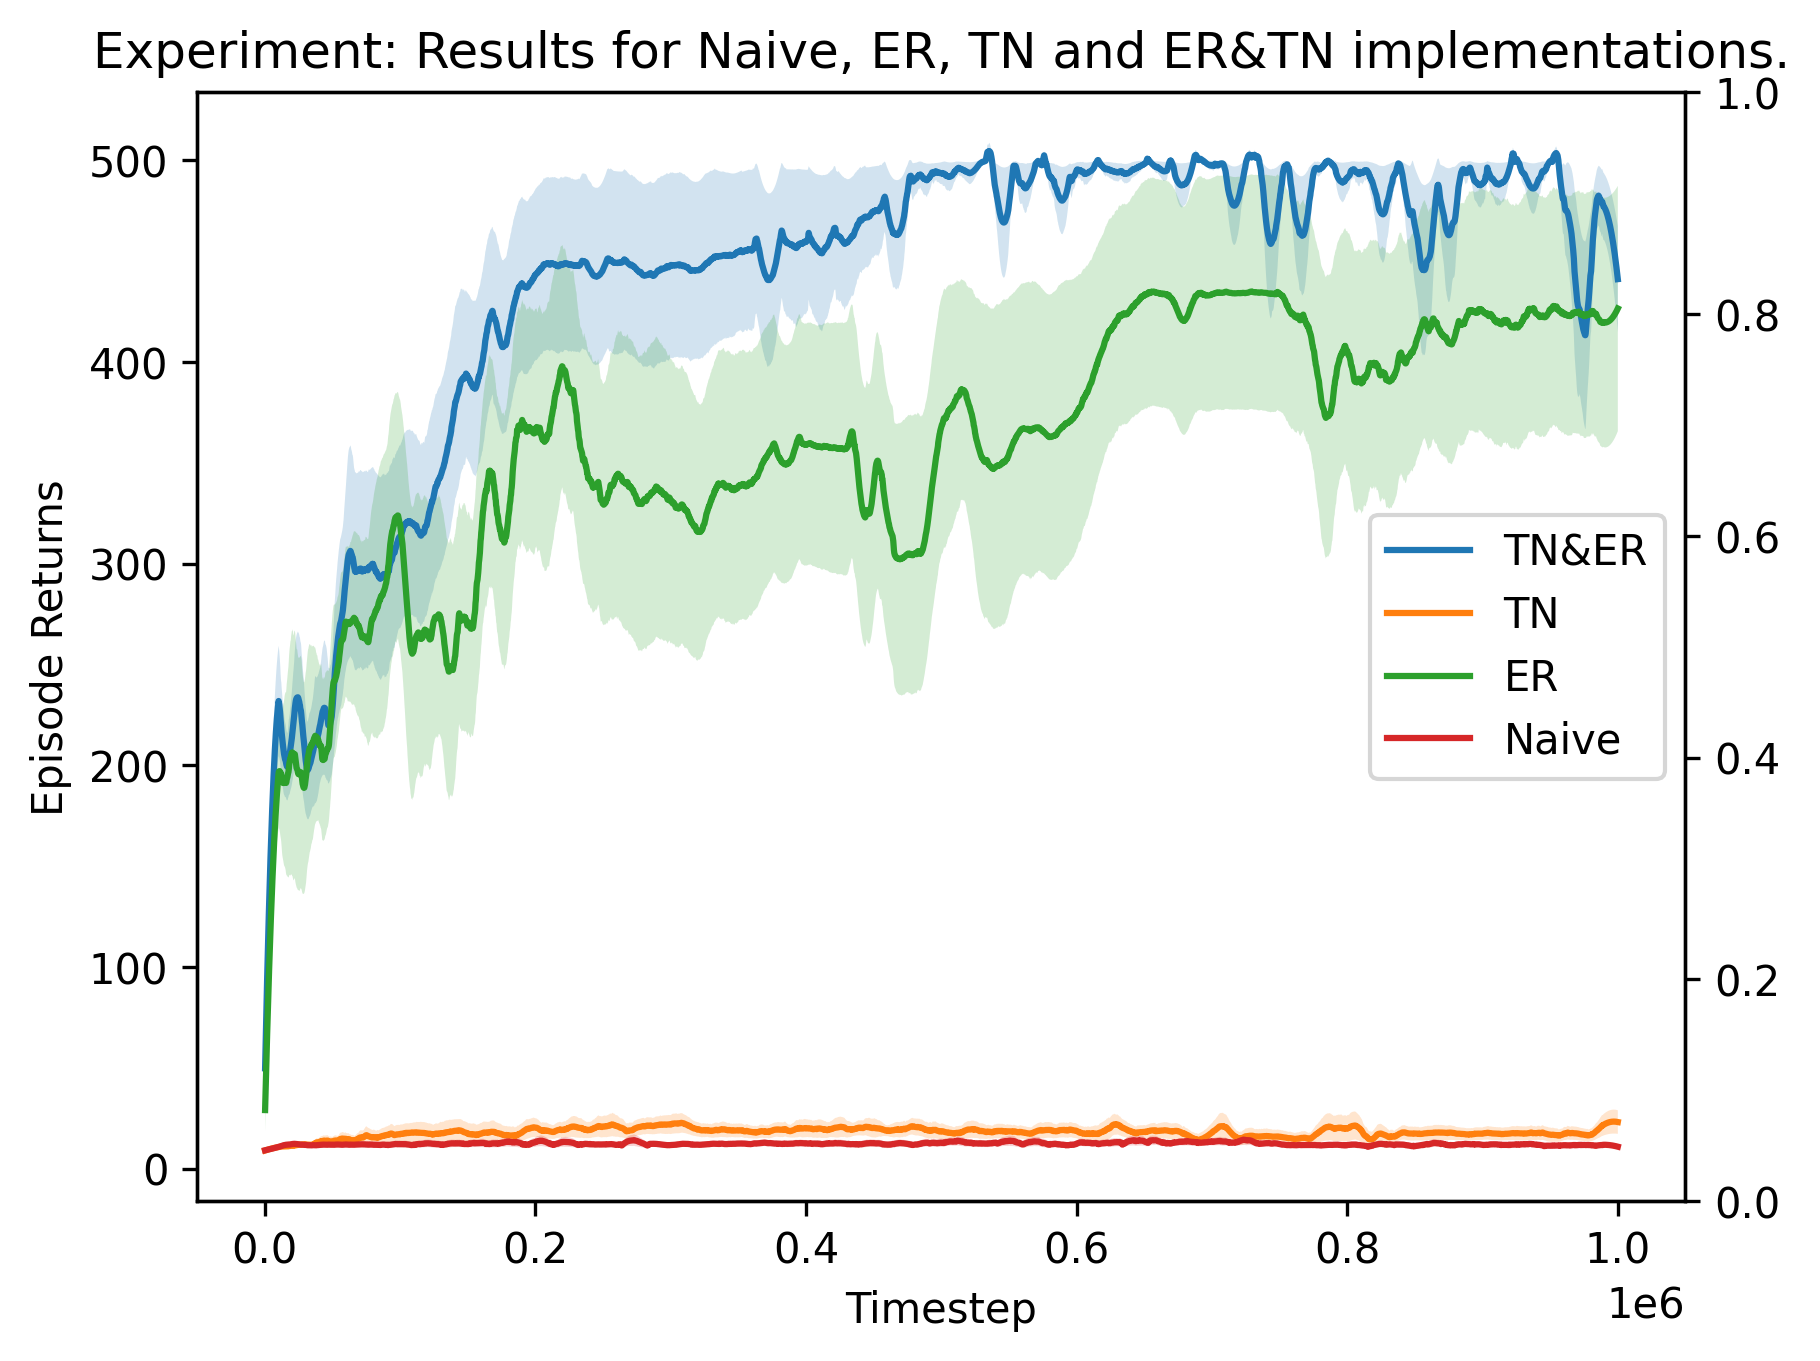
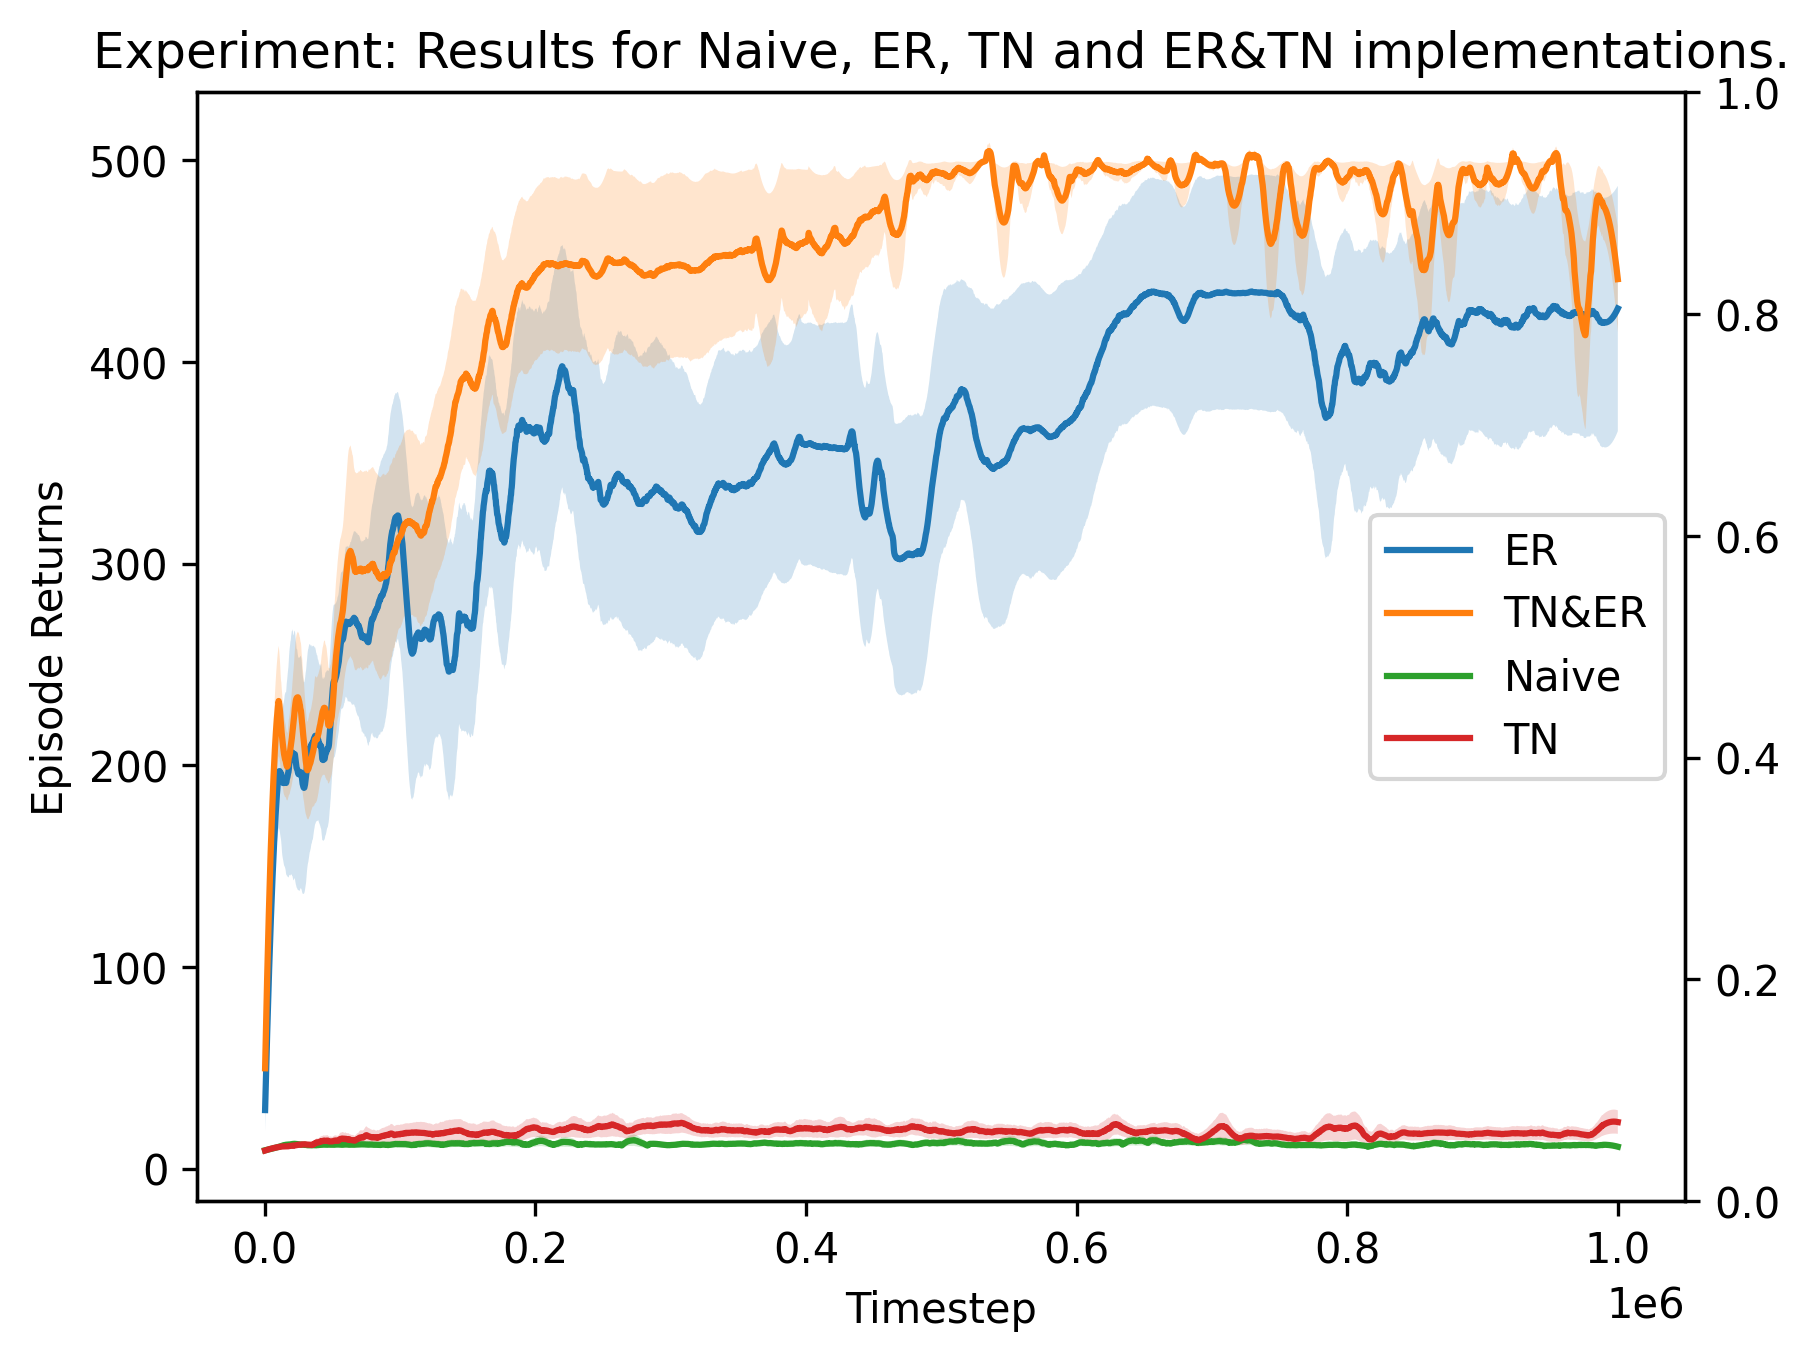
fixes

Changed region(s): [[0.1231, 0.0926, 0.8923, 0.8024], [0.1538, 0.8024, 0.8923, 0.8641], [0.8308, 0.3703, 0.9231, 0.5555]]

diff --git a/Plot_Full_Runs.py b/Plot_Full_Runs.py
@@ -3,7 +3,7 @@ import csv
 import os
 import numpy as np
 from scipy.signal import savgol_filter
-plot_titles = ['TN&ER','TN','ER','Naive']
+plot_titles = ['ER','TN&ER','Naive','TN']
 x_list = []
 y_list = []
 std_list = []
